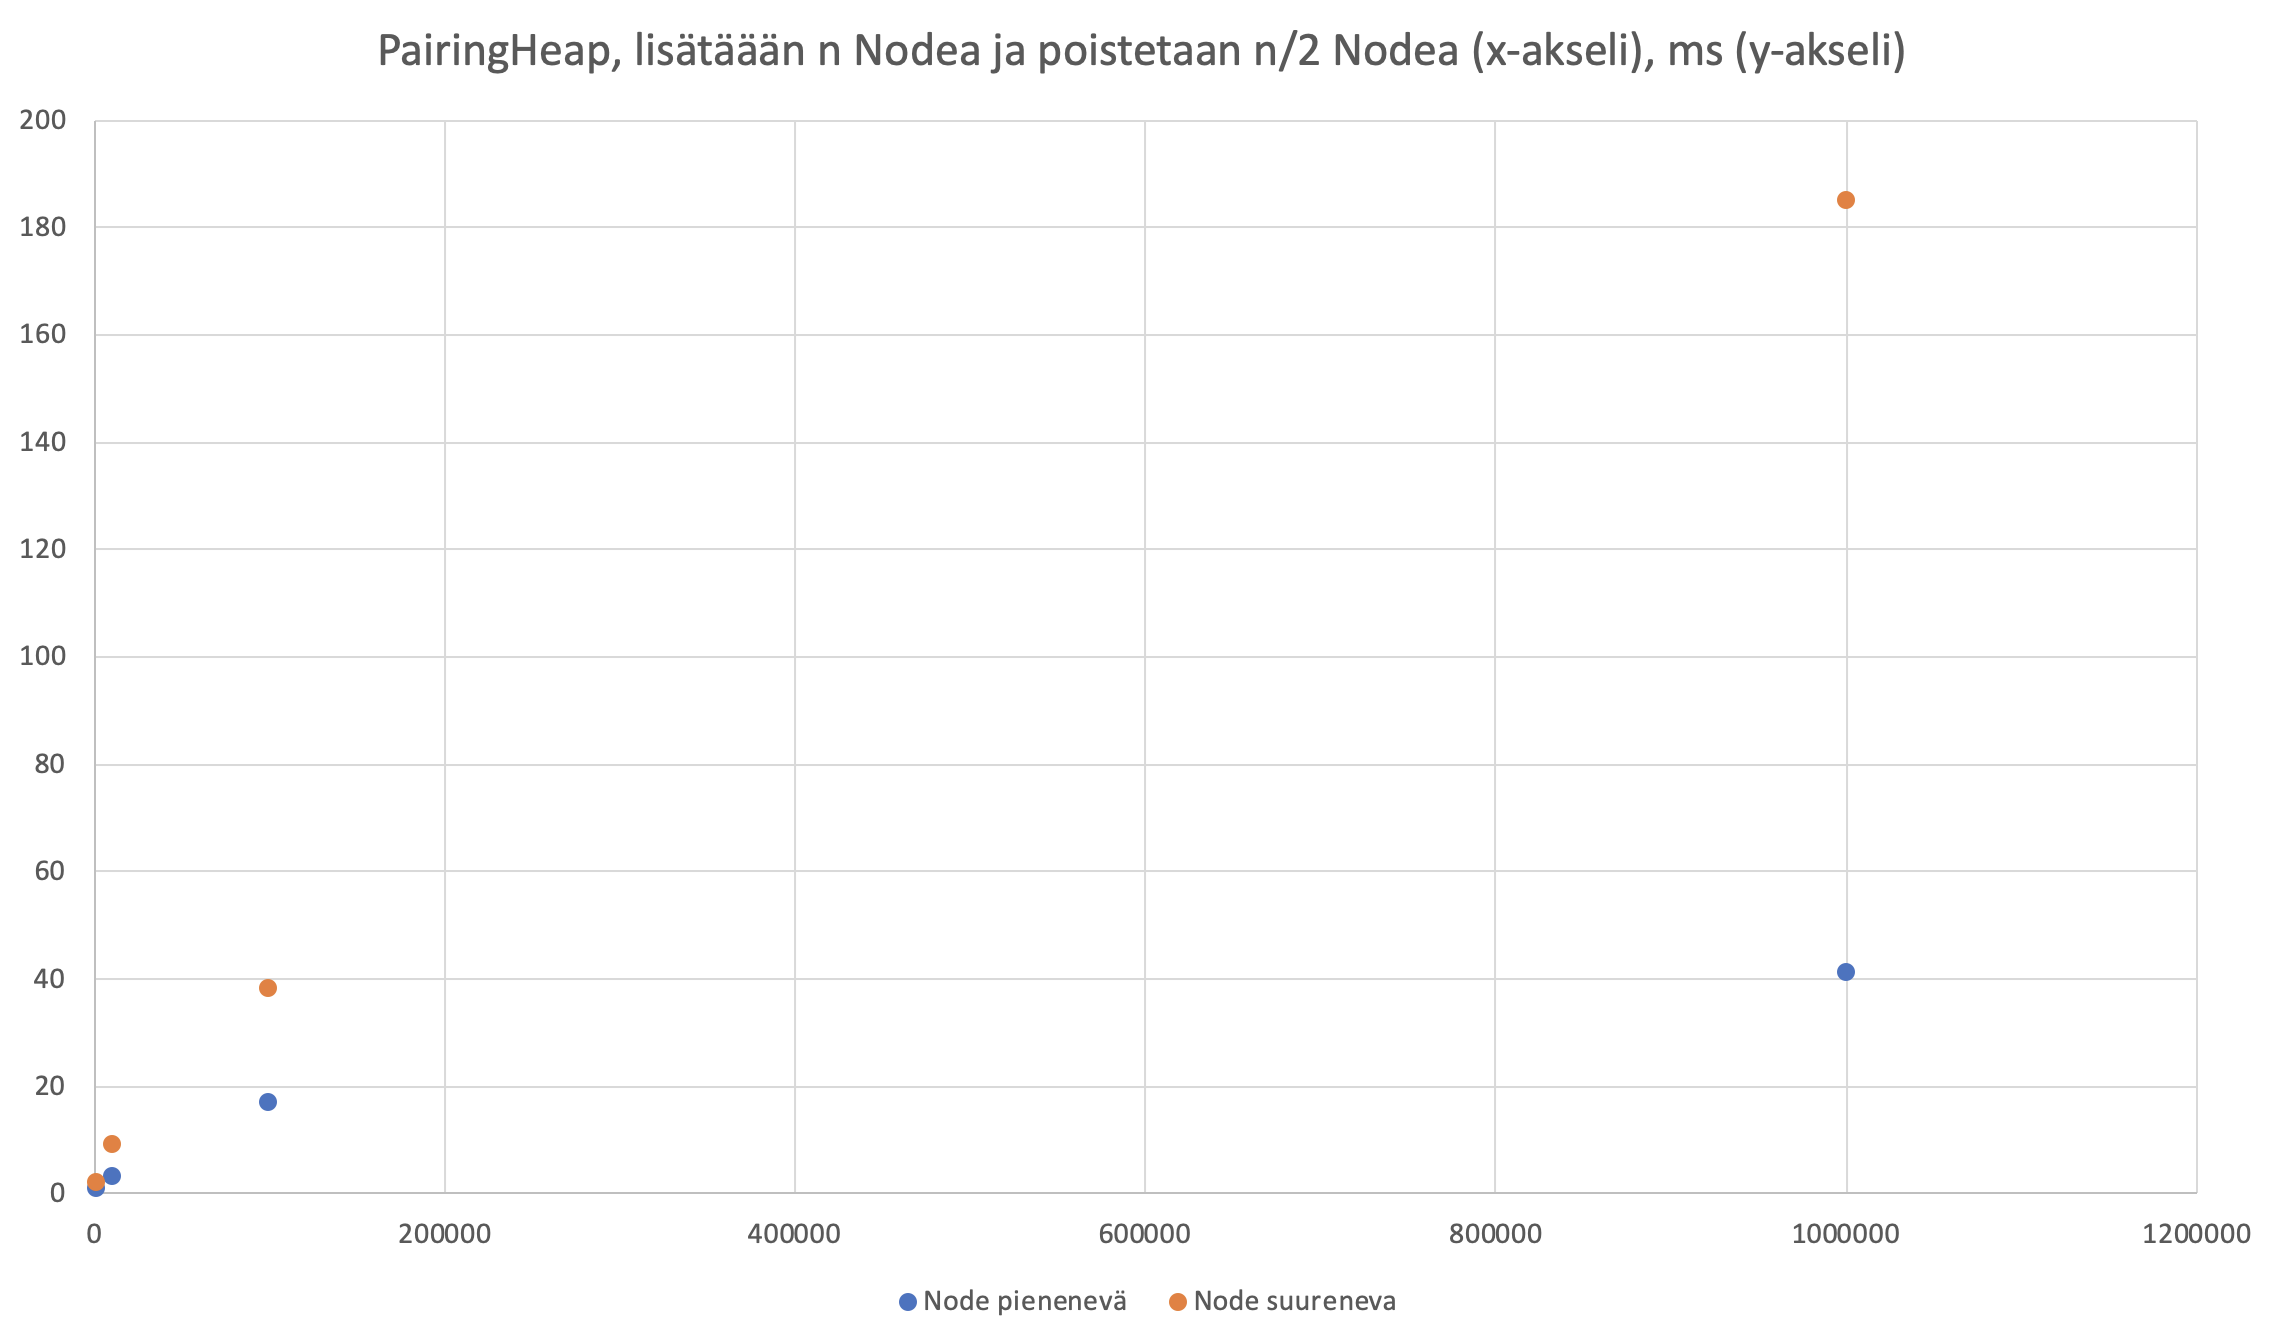
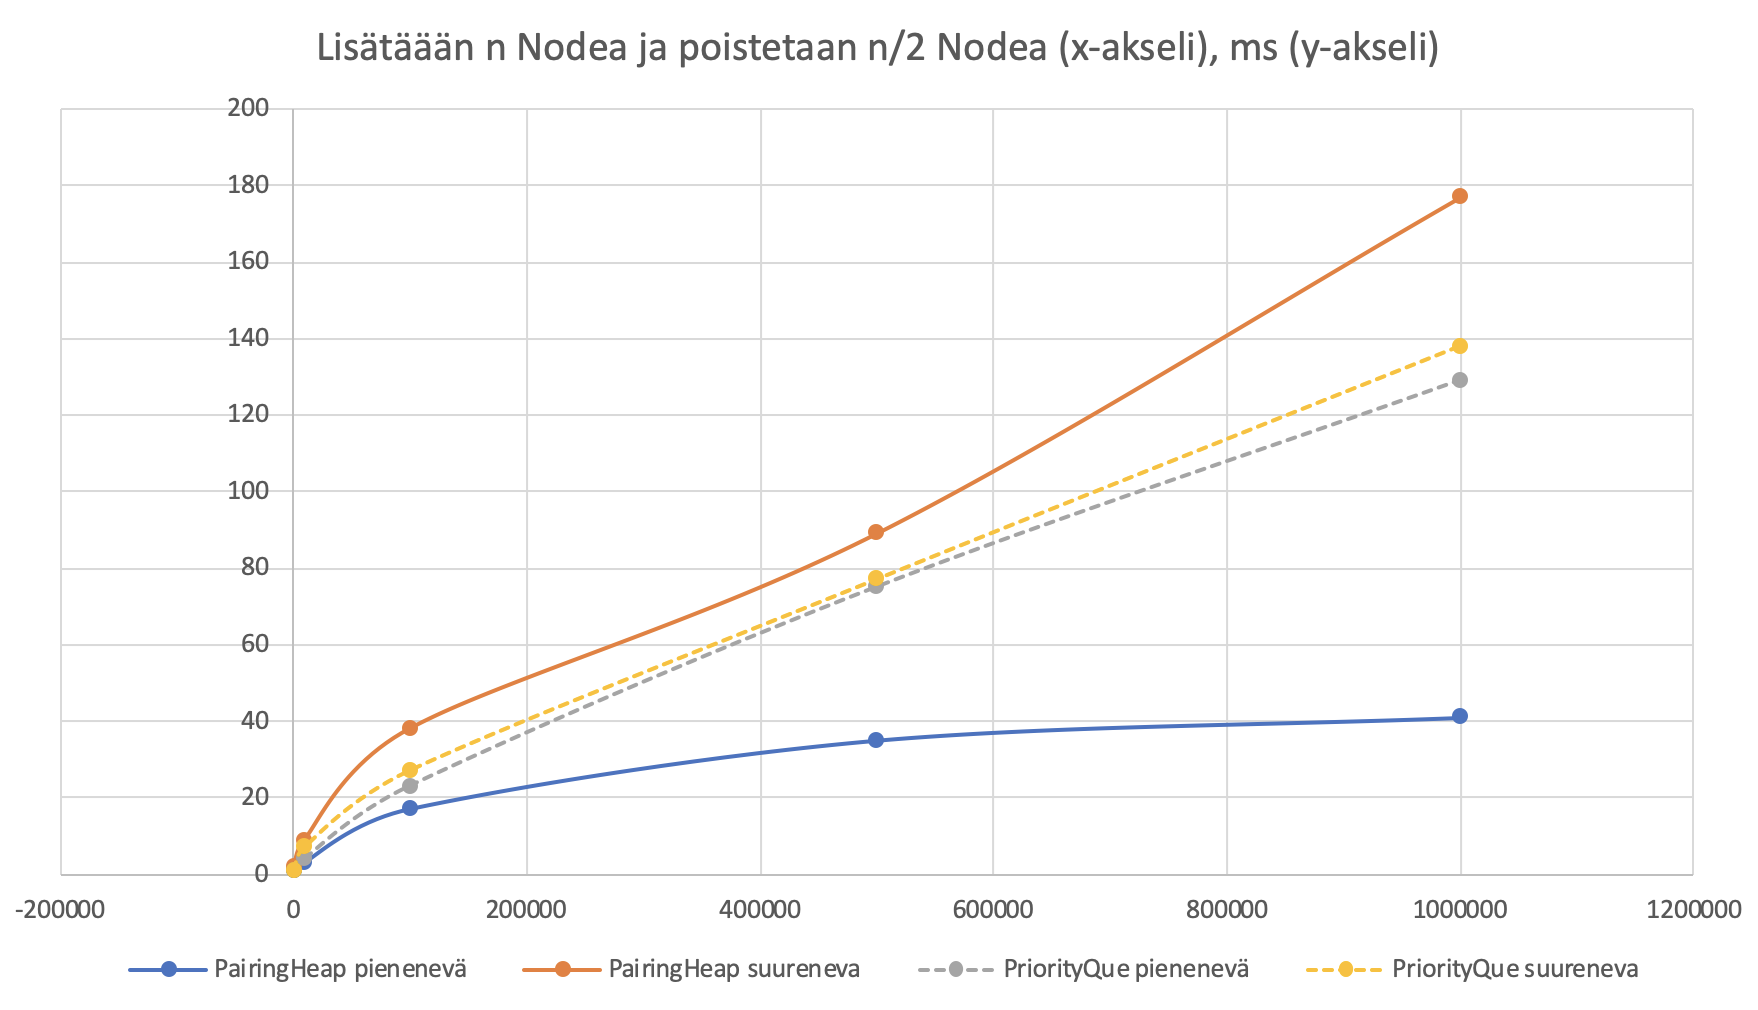
dokumentointi valmis

diff --git a/Tractus/src/main/java/helpers/PerformanceTests.java b/Tractus/src/main/java/helpers/PerformanceTests.java
@@ -17,7 +17,7 @@ import java.util.PriorityQueue;
 public class PerformanceTests {
     
     private int ArrayListTestSize = 1000;
-    private int HeapTestSize = 1000000;
+    private int HeapTestSize = 500000;
     
 
     public boolean runTests() {

diff --git a/documentation/toteutus.md b/documentation/toteutus.md
@@ -115,33 +115,39 @@ Näin ollen voidaan perustellusti väittää että reitinhakualgoritmin käytän
 
 ````
 
-def decreaseKey(x,k,H):
-    if x != H:
-        remove(x)
-        #the node x is removed from the child list where it was
-        key(x) = k
-        H = link(H,x)
+function insert(elem, heap)
+  return merge(Heap(elem, []), heap)
 
-    else:
-        key(H) = k
+function find-min(heap)
+  if heap == Empty
+    error
+  else
+    return heap.elem
+
+function delete-min(heap)
+  if heap == Empty
+    error
+  else
+    return merge-pairs(heap.subheaps)
+
+function merge(heap1, heap2)
+  if heap1 == Empty
+    return heap2
+  elsif heap2 == Empty
+    return heap1
+  elsif heap1.elem < heap2.elem
+    return Heap(heap1.elem, heap2 :: heap1.subheaps)
+  else
+    return Heap(heap2.elem, heap1 :: heap2.subheaps)
 
 def twoPassPairing(x):
     #x is assumed to be a pointer to the first node of a list of tree roots
     #two pass pairing executes and combines trees into a single tree
     #returns a pointer to the root of result tree
 
-def delete(x,H):
-    y = twoPassPairing(leftmost-child(x))
-    if x == H:
-        H = y
-    else:
-        remove(x)
-        #the subtree rooted at x is removed
-        H = link(H,y)
-
 ````
 
-Pseudokoodia tarkastelemalla voidaan päätellä että PairingHeap on  verrattain ripeä, lähelle O(1) kun siihen lisätään toinen toistaan pienempiä lukuja ja puu pysyy 'kapeana ja korkeana' ja verrattain hidas, lähelle O(log n) päinvastaisessa tilanteessa.
+Pseudokoodia tarkastelemalla voidaan päätellä että PairingHeap on  verrattain ripeä, O(log n) lähestyen O(1) kun siihen lisätään toinen toistaan pienempiä lukuja ja puu pysyy 'kapeana ja korkeana' ja verrattain hidas, lähelle O(log n) päinvastaisessa tilanteessa.
 
 Reitinhaku toteutettiin kahteen kertaan, [ensimmäisen kerran naivisti](https://github.com/juhoaj/tiralabra-tractus/blob/7ad2b26149c4d214acd819b7a24d15e43653e77a/Tractus/src/main/java/helpers/PairingHeap.java) ja tämän jälkeen tehokkaammin. Ks. [Testaus](testaus.md).  
 
@@ -149,8 +155,7 @@ Kun tietorakenteisiin asetetaan n kpl. toistaan pienempiä tai suurempia Nodeja 
 
 ![PairingHeap, lisätäään n Nodea ja poistetaan n/2 Nodea (x-akseli), ms (y-akseli) ](mittaukset/graafi7.png)
 
-
-
+Tästä voidaan nähdä että toteutettu PairingHeapin paraskin mahdollinen suorituskyky on O(log n) mutta sen suorituskyky riippuu vahvasti siitä mihin sitä käytetään.
 
 ## CustomArrayList nopeus 
 

diff --git a/documentation/testaus.md b/documentation/testaus.md
@@ -147,11 +147,11 @@ Ensiksi kokeiltiin reitinhakua ja varmistettiin että reittien pituudet vakioidu
 
 Voidaan todeta että PairingHeap ei vaikuta reitinhakualgoritmin toimintaan negatiivisesti.
 
-Toisaalta verrattaessa PairingHeap ja PriorityQue nopeautta huomattiin että nopeusero on marginaalinen.
+Toisaalta verrattaessa PairingHeap ja PriorityQue nopeautta huomattiin että nopeusero oli vain marginaalinen.
 
 ![Hirviöiden vuoron kesto viidens siirron keskiarvosta, ms 500 hirviötä, 500x500 maailma](mittaukset/graafi5.png)
 
-Näinollen päädyttiin refaktoroimaan PairingHeap ja saatiin seuraavat mittaustulokset.
+Näinollen päädyttiin refaktoroimaan PairingHeap epänaivimmaksi ja saatiin seuraavat huomattavasti paremmat mittaustulokset kun kekoon lisätään n toinen toistaan pienempää Nodea ja poistetaan n/2 Nodea joka vastaa aikaisemman testauksen mukaan keon käyttöä reitinhakualgoritmilla.
 
 | Nodea        | Priority Queue      | Pairing Heap      | 
 |--------------|---------------------|------------------:|

diff --git a/README.md b/README.md
@@ -31,8 +31,3 @@ Viikkoraportit:
 * [Viikkoraportti, viikko 6](https://github.com/juhoaj/tiralabra-tractus/blob/master/documentation/viikkoraportti_6.md)
 
 * [Viikkoraportti, viikko 7](https://github.com/juhoaj/tiralabra-tractus/blob/master/documentation/viikkoraportti_7.md)
-
-
-Todo:
-* Dokumentaatio kuntoon (keon testaus ja toteutus -dokumentointi)
-* Interface testaus loppuun

diff --git a/documentation/viikkoraportti_7.md b/documentation/viikkoraportti_7.md
@@ -2,6 +2,7 @@
 
 * Testausta ja dokumentaatiota
 * Pairing heapin suunnittelua, naivi implementointi ja sovelluksen refaktorointi sitä käyttämään
+* Pairing heapin refaktorointi epänaiviksi suorituskyvyn parantamiseksi
 
 
 ## Miten ohjelma on edistynyt?
